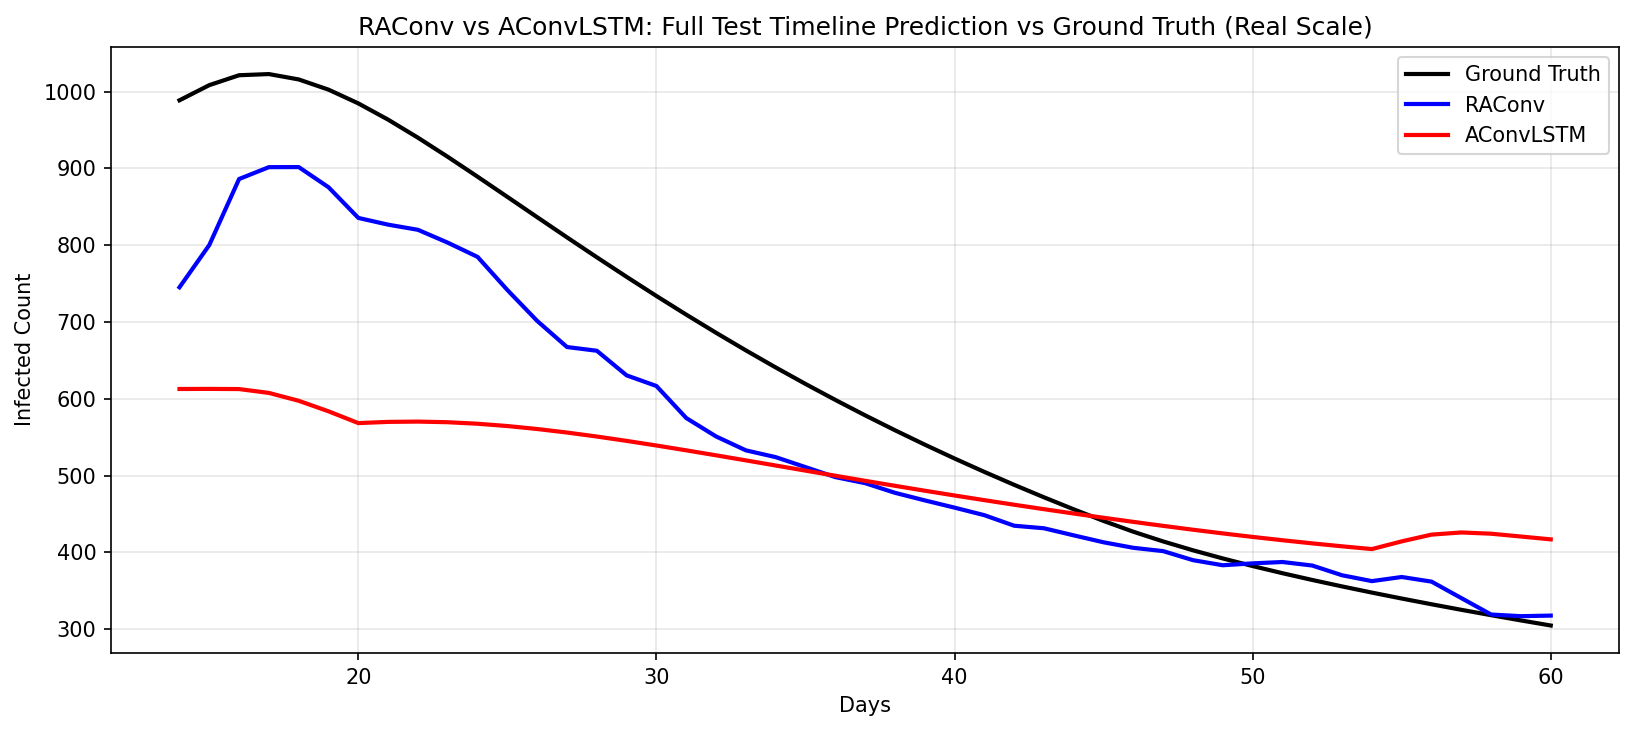
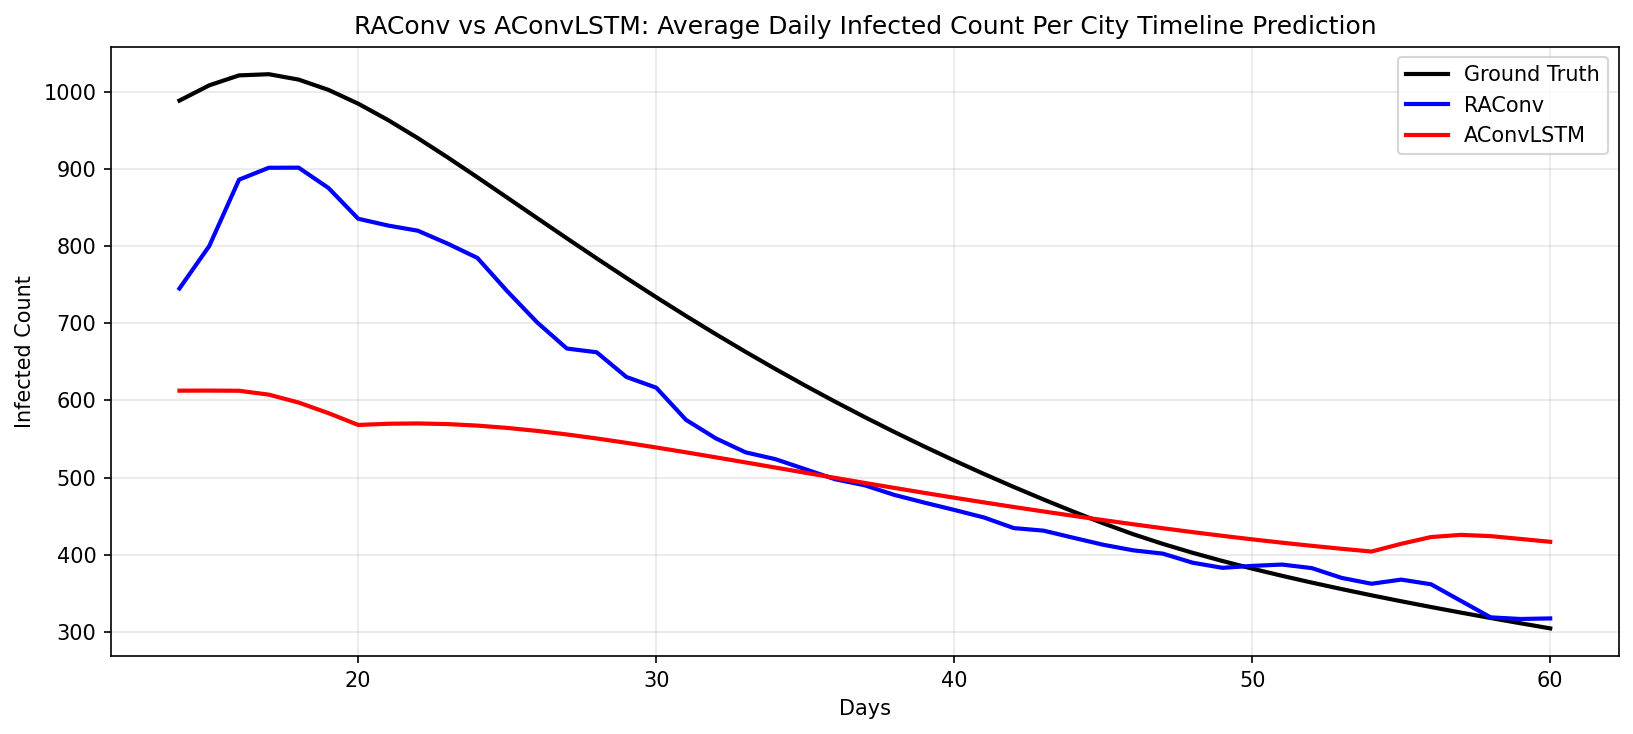
Change plot title name

diff --git a/plot/prediction_plot.py b/plot/prediction_plot.py
@@ -276,7 +276,7 @@ def main():
         aconvlstm_timeline=aconvlstm_timeline_real,
         target_timeline=target_timeline_real,
         save_path=timeline_real_path,
-        title="RAConv vs AConvLSTM: Full Test Timeline Prediction vs Ground Truth (Real Scale)",
+        title="RAConv vs AConvLSTM: Average Daily Infected Count Per City Timeline Prediction",
         y_label="Infected Count",
         start_day_offset=lookback_steps,
     )
